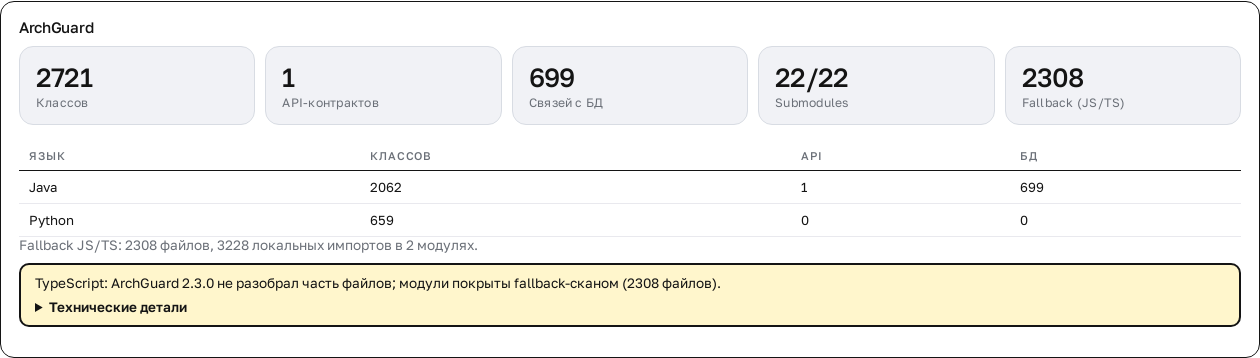
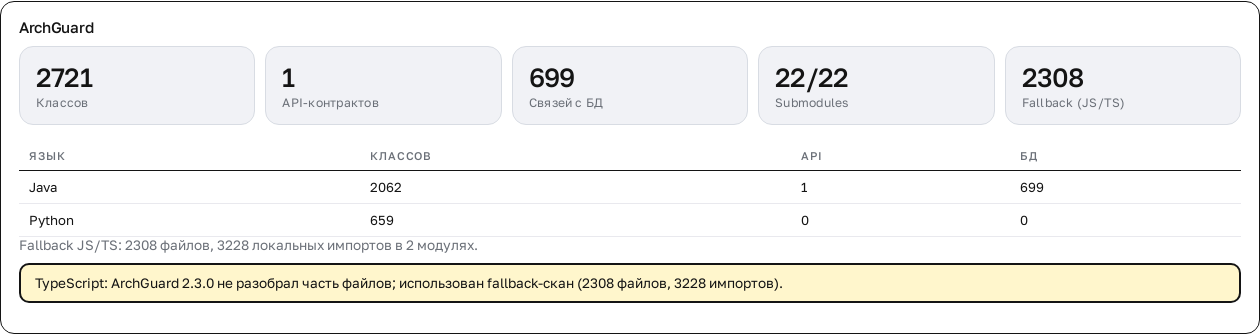
fix(ui): убрать Java-стек ArchGuard из интерфейса
Оставлено только жёлтое предупреждение и fallback-покрытие JS/TS;
технические детали доступны в логах analyzer, но не в UI.

diff --git a/web/src/components/OverviewPanel.tsx b/web/src/components/OverviewPanel.tsx
@@ -113,15 +113,9 @@ export function OverviewPanel({
               item.language === "TypeScript" && Boolean(archguard.fallback?.files);
             return (
               <div key={item.language} className="alert warning">
-                <span>
-                  {fallbackCovered
-                    ? `TypeScript: ArchGuard 2.3.0 не разобрал часть файлов; модули покрыты fallback-сканом (${archguard.fallback?.files ?? 0} файлов).`
-                    : `${item.language}: ${item.summary ?? "анализатор завершился с ошибкой"}`}
-                </span>
-                <details>
-                  <summary>Технические детали</summary>
-                  <pre>{item.error}</pre>
-                </details>
+                {fallbackCovered
+                  ? `TypeScript: ArchGuard 2.3.0 не разобрал часть файлов; использован fallback-скан (${archguard.fallback?.files ?? 0} файлов, ${archguard.fallback?.imports ?? 0} импортов).`
+                  : `${item.language}: анализатор завершился с ошибкой; подробности в логах analyzer.`}
               </div>
             );
           })}

diff --git a/web/src/styles.css b/web/src/styles.css
@@ -1035,24 +1035,3 @@ p {
   color: #141414;
   margin-top: 10px;
 }
-
-.alert.warning details {
-  margin-top: 8px;
-}
-
-.alert.warning summary {
-  cursor: pointer;
-  font-weight: 600;
-}
-
-.alert.warning pre {
-  margin: 8px 0 0;
-  padding: 10px;
-  max-height: 180px;
-  overflow: auto;
-  background: #fff;
-  border: 1px solid #141414;
-  border-radius: 10px;
-  font-size: 11px;
-  white-space: pre-wrap;
-}

diff --git a/CHANGELOG.md b/CHANGELOG.md
@@ -23,9 +23,8 @@
 
 ### Fixed
 
-- UI больше не показывает Java-стек TypeScript-парсера ArchGuard как ошибку:
-  ограничение отображается жёлтым предупреждением, технические детали свёрнуты;
-  fallback-покрытие JS/TS видно отдельной строкой.
+- UI не показывает Java-стек TypeScript-парсера ArchGuard: осталось только
+  понятное жёлтое предупреждение и fallback-покрытие JS/TS.
 
 ### Changed
 
